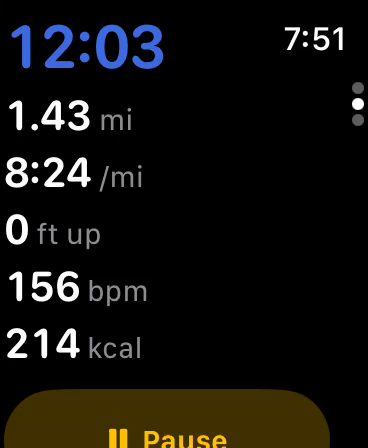
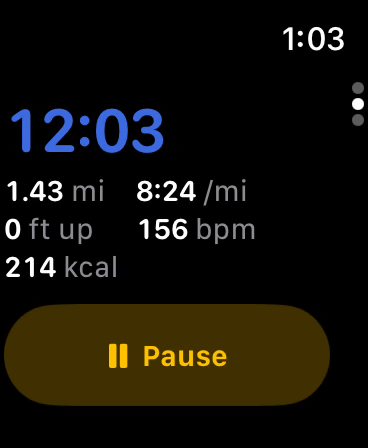
Keep Pause on screen on the watch: two-up metrics, inset controls
With heart rate and calories the metrics page stacked the clock and five
rows, and on a 44mm screen Pause ran off the bottom; it showed in the App
Store watch screenshot and in the iMessage share card. Five metrics now go
two to a row (three rows), so Pause fits on 40mm and 44mm; three metrics
keep the single column. The controls page's End and Pause ran edge to edge
with the page dots on top of Pause; it is now inset 16pt each side.

Recaptured the watch App Store screenshots (metrics + controls) from the
fixed build and recomposed the navy panels.

Verified by recording -watch-preview on Apple Watch SE 3 40mm and 44mm.
XCUITest: N/A because watchOS has no XCUITest; MilepostWatchTests pass and
smoke_test_watch.sh gates the ship.
OWASP LLM: N/A, no LLM surface.

diff --git a/MilepostWatch/Screens/WatchSessionView.swift b/MilepostWatch/Screens/WatchSessionView.swift
@@ -75,6 +75,9 @@ private struct WatchControlsPage: View {
                 .font(.footnote)
                 .foregroundStyle(.secondary)
         }
+        // Inset from both edges: full-width buttons touched the bezel and the
+        // vertical page dots sat on top of Pause (seen on 40mm, 2026-10-05).
+        .padding(.horizontal, 16)
         .confirmationDialog("End this \(workout.recorder.sport.title.lowercased())?",
                             isPresented: $confirmEnd, titleVisibility: .visible) {
             Button("End", role: .destructive) {
@@ -114,16 +117,23 @@ private struct WatchMetricsPage: View {
                     .foregroundStyle(Theme.paused)
             }
 
-            metric(Format.distance(workout.recorder.distanceMeters, unit: unit), unit.abbreviation)
-            metric(sport.rateText(workout.recorder.currentSplitPace ?? workout.recorder.averagePace, unit: unit),
-                   sport.rateSuffix(unit: unit))
-            metric(Format.elevation(workout.recorder.elevationGainMeters, unit: unit),
-                   "\(unit.elevationAbbreviation) up")
-            if let bpm = workout.heartRate {
-                metric("\(Int(bpm.rounded()))", "bpm")
-            }
-            if let kcal = workout.activeKilocalories {
-                metric("\(Int(kcal.rounded()))", "kcal")
+            // One column fits three metrics under the clock with Pause still on
+            // screen. Heart rate and calories make five, which ran Pause off the
+            // bottom of a 44mm screen (seen 2026-10-05), so five go two-up.
+            let items = metrics
+            if items.count <= 3 {
+                ForEach(items, id: \.suffix) { metric($0.value, $0.suffix, size: 22) }
+            } else {
+                Grid(alignment: .leading, horizontalSpacing: 8, verticalSpacing: 1) {
+                    ForEach(Array(stride(from: 0, to: items.count, by: 2)), id: \.self) { i in
+                        GridRow {
+                            metric(items[i].value, items[i].suffix, size: 19)
+                            if i + 1 < items.count {
+                                metric(items[i + 1].value, items[i + 1].suffix, size: 19)
+                            }
+                        }
+                    }
+                }
             }
 
             Spacer(minLength: 6)
@@ -145,14 +155,30 @@ private struct WatchMetricsPage: View {
         .accessibilityIdentifier("watch.metrics")
     }
 
-    private func metric(_ value: String, _ suffix: String) -> some View {
+    private var metrics: [(value: String, suffix: String)] {
+        var out = [
+            (Format.distance(workout.recorder.distanceMeters, unit: unit), unit.abbreviation),
+            (sport.rateText(workout.recorder.currentSplitPace ?? workout.recorder.averagePace, unit: unit),
+             sport.rateSuffix(unit: unit)),
+            (Format.elevation(workout.recorder.elevationGainMeters, unit: unit),
+             "\(unit.elevationAbbreviation) up"),
+        ]
+        if let bpm = workout.heartRate { out.append(("\(Int(bpm.rounded()))", "bpm")) }
+        if let kcal = workout.activeKilocalories { out.append(("\(Int(kcal.rounded()))", "kcal")) }
+        return out
+    }
+
+    private func metric(_ value: String, _ suffix: String, size: CGFloat) -> some View {
         HStack(alignment: .firstTextBaseline, spacing: 3) {
             Text(value)
-                .font(.system(size: 22, weight: .semibold, design: .rounded))
+                .font(.system(size: size, weight: .semibold, design: .rounded))
                 .monospacedDigit()
+                .lineLimit(1)
+                .minimumScaleFactor(0.7)
             Text(suffix)
                 .font(.caption2)
                 .foregroundStyle(.secondary)
+                .lineLimit(1)
         }
     }
 }
